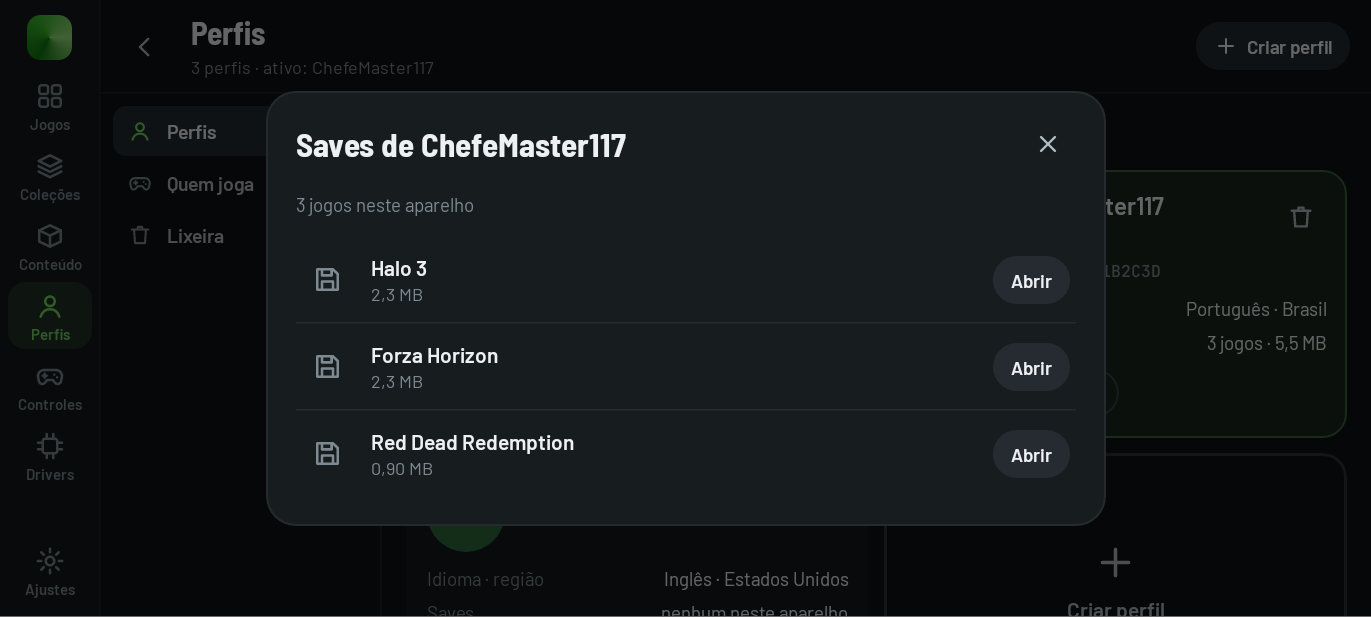
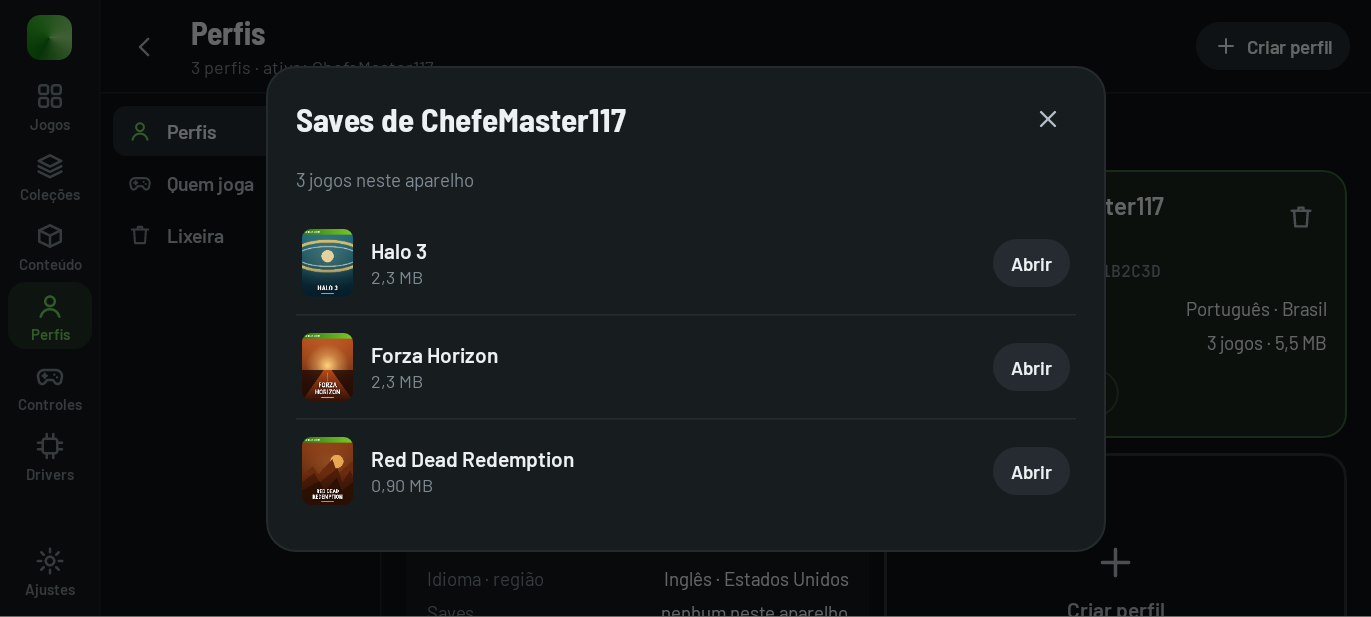
UI redesign B+C: implementation notes, print index and final checks
- docs/ui-redesign/app.md: what changed in each batch (R0, Base, 1-7),
  where the before/after prints are and how to draw them again, the
  tests run, what still needs a device, and the prototype's proposals
  that did not go in (a keymap per controller, finding the game on the
  network and its QR code, picking a disc file inside the game) with
  why; an index of every before/after print.
- docs/ui-redesign/README.md and bc/README.md: state and decisions
  brought up to date (the per-game in-game menu items stay open).
- Lote 4 prints of a game's saves redrawn: the header cover has had a
  fixed aspect ratio since Lote 5, and the profile's saves sheet now
  waits for its covers.
- Instrumented tests compile again: Item38TouchLayoutsTest shows the
  layouts dialog's messages, reported through onMessage since Lote 3.

Tests: testDebugUnitTest 570 passed; testUitestUnitTest 681 passed;
compileUitestAndroidTestKotlin passes. Device validation pending.

Claude-Session: https://claude.ai/code/session_01A6Fbmo6P4eGzPnmXsdG7hf

diff --git a/app/src/androidTest/java/xendroid/compose/roadmap/Item38TouchLayoutsTest.kt b/app/src/androidTest/java/xendroid/compose/roadmap/Item38TouchLayoutsTest.kt
@@ -4,6 +4,7 @@ import android.app.Activity
 import android.app.Instrumentation
 import android.content.Intent
 import android.net.Uri
+import androidx.compose.material3.Text
 import androidx.compose.runtime.getValue
 import androidx.compose.runtime.mutableStateOf
 import androidx.compose.runtime.setValue
@@ -93,8 +94,13 @@ class Item38TouchLayoutsTest {
 
     @Test fun saveApplyExportImportAndRefusals() {
         var config by mutableStateOf(GamepadConfigDto(version = 2, landscape = moved()))
+        // The dialog reports by onMessage (the editor shows it as a toast); shown here to be waited for.
+        var message by mutableStateOf<String?>(null)
         compose.setContent {
-            xendroidTheme { LayoutPresetsDialog(config, editScope = null, landscape = true, onChange = { config = it }, onDismiss = {}) }
+            xendroidTheme {
+                message?.let { Text(it) }
+                LayoutPresetsDialog(config, editScope = null, landscape = true, onChange = { config = it }, onMessage = { message = it }, onDismiss = {})
+            }
         }
         compose.onNodeWithText(Device.string(R.string.lp_scope_shared)).assertExists()
         save("Corrida")
@@ -137,8 +143,12 @@ class Item38TouchLayoutsTest {
     @Test fun thisGameOnlyTouchesOnlyThatGamesLayout() {
         val game = "4D5309C9"
         var config by mutableStateOf(GamepadConfigDto(version = 2).withLayout(game, true, moved()))
+        var message by mutableStateOf<String?>(null)
         compose.setContent {
-            xendroidTheme { LayoutPresetsDialog(config, editScope = game, landscape = true, onChange = { config = it }, onDismiss = {}) }
+            xendroidTheme {
+                message?.let { Text(it) }
+                LayoutPresetsDialog(config, editScope = game, landscape = true, onChange = { config = it }, onMessage = { message = it }, onDismiss = {})
+            }
         }
         compose.onNodeWithText(Device.string(R.string.lp_scope_game)).assertExists()
         save("Corrida")

diff --git a/app/src/testUitest/java/xendroid/compose/screens/Lote4Shots.kt b/app/src/testUitest/java/xendroid/compose/screens/Lote4Shots.kt
@@ -129,7 +129,9 @@ class Lote4Shots {
         profiles(InputMode.TOUCH)
         // The second card's button (ChefeMaster117: saves in three games), not the "Saves" label.
         compose.onAllNodes(hasText("Saves") and hasClickAction())[1].performClick()
-        Fixture.settle(10)
+        // The sheet's covers are decoded in the background.
+        Fixture.settle(40)
+        compose.waitForIdle()
         compose.screen("lote4/depois-saves-do-perfil")
     }
     @Config(qualifiers = Phone.LAND) @Test fun playAs() {

diff --git a/docs/ui-redesign/app.md b/docs/ui-redesign/app.md
@@ -1,0 +1,196 @@
+# Redesign B + C no app
+
+**Estado:** implementado em Compose na branch `wip/ui-redesign`, do R0 ao lote 7. Os testes locais
+passam (unitários, telas no JVM e a compilação dos testes instrumentados); **a validação no
+aparelho está pendente em todos os lotes**. Sem PR, merge ou release.
+
+A direção é a escolhida no protótipo ([`bc/`](bc/README.md)): **B como padrão (toque)** e **C como
+modo controle**, ligado sozinho quando um controle está conectado (Configurações → App →
+Interface: Automático, Sempre toque ou Sempre controle).
+
+## Prints antes e depois
+
+- `prints/app/<lote>/antes-*.png`: as telas como eram, desenhadas a partir do commit anterior ao
+  redesenho (`545296bd3`).
+- `prints/app/<lote>/depois-*.png`: as telas de agora, desenhadas pelos testes de tela
+  (`app/src/testUitest/.../screens/BaseShots.kt`, `Lote1Shots.kt` … `Lote7Shots.kt`).
+- Telefone 20:9 (914 × 411 dp deitado, 411 × 914 dp em pé, densidade 1,5×), tema escuro,
+  português do Brasil. Os prints com `-controle` no nome estão no modo controle (cor da capa ao
+  fundo, dicas dos botões embaixo).
+- Os dados são de exemplo: biblioteca com arte gerada, núcleo nativo simulado (tabelas TOML,
+  perfis, conteúdo), telefone descrito como POCO F7 com Adreno 740.
+
+Para desenhar de novo (precisa do Android SDK, como no `BUILD.md`):
+
+```sh
+./gradlew :app:testUitestUnitTest -Pscreenshots="$PWD/docs/ui-redesign/prints/app"
+# um lote só:
+./gradlew :app:testUitestUnitTest --tests 'xendroid.compose.screens.Lote6Shots' -Pscreenshots="$PWD/docs/ui-redesign/prints/app"
+```
+
+Sem `-Pscreenshots` os mesmos testes desenham cada tela sem gravar arquivo (testes de fumaça).
+
+## O que mudou, lote por lote
+
+### R0: tema e peças base
+
+- `ui/design`: os tokens de B (toque) e C (controle) num `ColorScheme` escuro; Barlow, Barlow Semi
+  Condensed e JetBrains Mono (licenças OFL no APK, conferidas por `tools/check-apk.py`); os ícones
+  de linha do protótipo; botões, chips, controle segmentado, interruptor, busca, seleção, cartões,
+  linhas de lista, notas, selos, capas com a composição para jogos só com ícone, folhas, avisos e
+  as molduras de B e C (trilho, barra inferior, telas com seções, menu do controle, dicas, menu do
+  Start).
+- Modo controle automático, sempre toque ou sempre controle.
+- 29 cvars que o core já lê entraram no esquema de ajustes (mais o modo de vídeo personalizado e
+  a gama personalizada); níveis Essencial, Avançado e Tudo; ajustes rápidos fixados.
+
+### Base: biblioteca e ficha do jogo
+
+- Biblioteca para toque (trilho, busca, ordem, tamanho das capas, filtros, grade e o painel do
+  jogo escolhido com Jogar e ajustes rápidos) e para controle (abas por LB/RB, carrossel, cor da
+  capa ao fundo, dicas, menu do Start).
+- Ficha do jogo como tela: visão geral, cada grupo de ajustes do jogo com a troca para os valores
+  globais, desempenho (gráficos e linha do tempo da última sessão), patches e conteúdo, saves e
+  dados.
+- **Iniciar com…**: perfil, driver, executável, sem patches, sem os ajustes do jogo e linha de
+  comando extra, só para uma abertura (passados ao processo do jogo com o token desta abertura e
+  uma lista fechada do que é aceito).
+
+### Lote 1: Configurações e Drivers
+
+- Configurações com o resumo do que está fora do padrão e dos jogos com ajustes próprios, os mesmos
+  grupos da ficha (cada ajuste diz quantos jogos usam outro valor), interface, idioma, dados e
+  backup, atualizações, comunidade e diagnóstico.
+- Área Drivers: o escolhido e o que a última sessão carregou, pacotes instalados, downloads com
+  SHA-256 conferido, fontes e flags do Turnip.
+
+### Lote 2: jogo aberto
+
+- Carregamento com as etapas do boot e o tempo de cada uma, e com o que o jogo leva nesta abertura.
+- Falha ao abrir com o motivo numa frase e o próximo passo certo (tentar uma vez com o driver do
+  sistema, ir aos saves, tentar de novo).
+- Menu em jogo redesenhado, com a linha de estado e a navegação por controle de antes.
+
+### Lote 3: Controles
+
+- Controles virou uma área do app: quem joga como P1–P4, opções e layouts do toque, cada controle
+  físico com a própria vibração, ajustes do core para controles, telefones como controle e as
+  quatro ferramentas (o editor de toque e o celular como controle estavam sem caminho desde que o
+  menu antigo da biblioteca saiu).
+- Mapeamento de teclas com o controle desenhado, editor de toque com painel do controle escolhido
+  e desfazer, teste de controles que acende o que é apertado, celular como controle redesenhado.
+
+### Lote 4: Perfis e saves
+
+- Perfis como área: cartões (avatar, P1 ativo, idioma, região, saves por jogo), quem joga (P1–P4,
+  perguntar antes de jogar) e a lixeira de perfis; criar e editar numa folha só.
+- Jogar como numa folha; os saves de um jogo com gamertag e avatar em vez do XUID, os nomes dos
+  saves lidos dos cabeçalhos, exportar e importar, e a pasta de sincronização numa seção própria.
+
+### Lote 5: Conteúdo, Diagnóstico e Comparar execuções
+
+- Conteúdo como área: DLC e title updates de todos os jogos, a lixeira com a cota, instalar com os
+  pacotes achados em Downloads; pela ficha, só o daquele jogo.
+- Diagnóstico com as sessões guardadas, os jogos de cada uma e como terminou; o resumo antes de
+  compartilhar e o que sai do arquivo.
+- Comparar execuções com as execuções (A / – / B) ao lado do resultado e dos avisos.
+
+### Lote 6: primeira abertura e telas do app
+
+- **Primeira abertura** (`FirstRunAssistant.kt`): cinco passos com Pular e Voltar sempre à mão:
+  este telefone (GPU Vulkan, ARM de 64 bits, Android, pasta), seus jogos (a pasta escolhida, a busca
+  com quantos jogos e as capas, adicionar outra), idioma e região dos jogos, o perfil criado ali
+  mesmo (vira P1) e como usar (modo da interface, ajustes mostrados, driver opcional). Volta ao
+  mesmo passo depois do navegador de pastas; com controle, cada passo começa no botão principal;
+  reabre pelo menu da biblioteca ou por Sobre.
+- **Pastas de jogos** (`GameFoldersScreen.kt`, no lugar do `GameFoldersDialog.kt`): quantos jogos
+  cada pasta tem, a que recebe as instalações ("Instalar aqui" troca), as indisponíveis agora com o
+  motivo, adicionar, procurar de novo e remover com Desfazer (os arquivos nunca são tocados).
+- **Navegador de pastas** (`FolderBrowserScreen.kt`): armazenamento interno e cartões SD/USB como
+  chips, o caminho em passos clicáveis, quantos jogos há em cada pasta antes de entrar
+  (`FolderGames.kt`, contado em segundo plano e com limite; um ISO só conta com a assinatura de
+  disco do Xbox onde o núcleo a procura, então o ISO de outro console não vira "1 jogo") e na
+  pasta atual; também escolhe um arquivo (pacote a instalar, jogo que mudou de lugar).
+- Caminhos ditos como o app Arquivos diz: "Armazenamento interno › Games › Xbox 360"
+  (`StoragePaths.kt`).
+- **Jogos que saíram** (`MissingGamesScreen.kt`, no lugar do `MissingGamesDialog.kt`): capa
+  guardada, motivo (arquivo sumiu, pasta indisponível, fora das pastas), tempo jogado, Title ID e o
+  caminho de antes; "Onde ele está agora?" abre o navegador perto do caminho antigo e adiciona a
+  pasta do arquivo escolhido; adicionar a pasta; remover só da lista.
+- **Sem Vulkan** (`NoVulkanScreen.kt`): o porquê, as verificações, Sair e copiar os dados do
+  aparelho.
+- **Atualizações do app** (`UpdateScreen.kt`): versão, canal e última procura com "Procurar
+  agora", o canal, e o cartão da atualização (notas, tamanho, SHA-256) com as etapas baixar →
+  conferir o SHA-256 → instalar, progresso e cancelar, pular esta versão e os erros numa frase. O
+  mesmo cartão aparece na folha da procura automática ao abrir o app e em Configurações. Um build
+  sem canal diz de onde vêm as atualizações.
+- **Sobre** (`AboutScreen.kt`, `DeviceInfo.kt`): versão, o aparelho em tabela com copiar tudo,
+  atalhos (atualizações, diagnóstico, assistente) e créditos e licenças.
+
+### Lote 7: os painéis que o jogo pede
+
+- Moldura comum (`GuestPanelFrame.kt`): painel no topo sobre o jogo parado, dizendo qual jogo
+  pergunta (capa e nome) e o que ele pede; as dicas do controle embaixo no modo controle; compacto
+  num telefone deitado. Continua sem ser um `Dialog`, que tiraria o foco da janela e pausaria o
+  jogo.
+- **Mensagem** (`GuestMessageBoxPanel.kt`): título, texto que rola quando é longo com as opções
+  sempre à vista, opções em linhas inteiras e "O jogo fica parado até você escolher".
+- **Teclado** (`GuestKeyboardPanel.kt`): o pedido do jogo, o campo com o limite contado como o jogo
+  conta, as teclas de comando em português (Shift, Espaço, Pronto, Cancelar; ícones quando a
+  grade é estreita), o cursor do controle só no modo controle e os atalhos do Xbox 360 à vista (A
+  digita, X apaga, Y espaço, LB/RB cursor, L3 Shift, R3 símbolos, ≡ pronto). Por toque, o teclado
+  do telefone digita no campo.
+- **Troca de disco** (`DiscSwapPanel.kt`): o disco pedido no título e já escolhido na lista, os
+  discos achados com o arquivo de cada um, o que estava no drive marcado "o de antes" (a escolha
+  fica à vista quando a lista rola) e Cancelar por último, avisando que o jogo já ejetou o disco.
+
+## Testes
+
+Rodados em 2026-10-04, no fim do lote 7:
+
+- `./gradlew :app:testDebugUnitTest`: 570 testes, nenhuma falha. Inclui os novos do redesenho
+  (`FolderGamesTest`, `LibraryRootsTest`, `RequestedDiscTest`, `ContentCatalogTest`,
+  `DiagnosticsSessionsTest`, `KeyboardGridTest`) e a paridade de textos en/pt-BR
+  (`StringResourcesTest`).
+- `./gradlew :app:testUitestUnitTest`: 681 testes de tela no JVM (Robolectric + Roborazzi),
+  nenhuma falha.
+- `./gradlew :app:compileUitestAndroidTestKotlin`: os testes instrumentados compilam
+  (`Item38TouchLayoutsTest` foi ajustado ao `onMessage` do diálogo de layouts, do lote 3). Rodá-los
+  exige um aparelho (`./gradlew :app:connectedUitestAndroidTest`) e não foi feito.
+
+## Validação no aparelho (pendente)
+
+| Lote | O que conferir |
+|---|---|
+| R0 / Base | Modo controle ligando e desligando sozinho ao conectar um controle; capas reais; Jogar e Iniciar com… abrindo o jogo |
+| 1 | Ajustes gravados no TOML global e do jogo; download de driver com SHA-256 |
+| 2 | Etapas do carregamento com um jogo real; falha ao abrir com o driver do sistema; menu em jogo com controle |
+| 3 | Captura de tecla com controle real; arrastar no editor de toque; teste de controles; celular como controle na rede |
+| 4 | Criar, editar e apagar perfis; Jogar como; exportar, importar e sincronizar saves |
+| 5 | Instalar conteúdo de Downloads; lixeira; sessões do diagnóstico com jogos reais; comparar execuções |
+| 6 | Assistente numa instalação limpa (acesso a todos os arquivos, Android 10 e 14); navegador com cartão SD e USB (nome do volume); "Onde ele está agora?"; atualização num build `.fork` com canal (baixar, conferir, permissão do instalador); copiar os dados em Sobre |
+| 7 | Mensagem, teclado e troca de disco em jogos reais: seleção pelo direcional vinda do host, teclado do telefone sem cobrir o campo, atalhos do Xbox 360, troca num jogo de vários discos |
+
+## Propostas do protótipo que ficaram de fora
+
+- **Mapa de teclas por controle** (lote 3): o host aplica um mapa só a todos os controles; um mapa
+  por aparelho precisa da identidade do controle no caminho da entrada.
+- **Achar o jogo na rede e ler o QR code** (celular como controle, lote 3): precisa de descoberta
+  na rede local (NSD/mDNS) dos dois lados e de câmera, uma permissão nova.
+- **Procurar o arquivo do disco** quando nenhum é achado (troca de disco, lote 7): o painel roda
+  dentro do jogo; entregar ao core um caminho escolhido ali exige conferir no host que o arquivo é
+  um disco daquele título. Ficou de fora para não abrir esse caminho sem a conferência; hoje
+  Cancelar continua sendo a saída, e o disco aparece depois de colocado numa pasta de jogos.
+
+## Índice dos prints
+
+| Lote | Antes | Depois |
+|---|---|---|
+| Base: biblioteca e ficha | [biblioteca paisagem](prints/app/base/antes-biblioteca-paisagem.png), [biblioteca retrato](prints/app/base/antes-biblioteca-retrato.png), [carrossel paisagem](prints/app/base/antes-carrossel-paisagem.png), [ficha paisagem](prints/app/base/antes-ficha-paisagem.png), [ficha retrato](prints/app/base/antes-ficha-retrato.png) | [biblioteca controle retrato](prints/app/base/depois-biblioteca-controle-retrato.png), [biblioteca controle](prints/app/base/depois-biblioteca-controle.png), [biblioteca paisagem](prints/app/base/depois-biblioteca-paisagem.png), [biblioteca retrato](prints/app/base/depois-biblioteca-retrato.png), [ficha ajustes](prints/app/base/depois-ficha-ajustes.png), [ficha conteúdo](prints/app/base/depois-ficha-conteudo.png), [ficha controle ajustes](prints/app/base/depois-ficha-controle-ajustes.png), [ficha controle](prints/app/base/depois-ficha-controle.png), [ficha dados](prints/app/base/depois-ficha-dados.png), [ficha desempenho](prints/app/base/depois-ficha-desempenho.png), [ficha paisagem](prints/app/base/depois-ficha-paisagem.png), [ficha retrato](prints/app/base/depois-ficha-retrato.png), [iniciar com…](prints/app/base/depois-iniciar-com.png) |
+| Lote 1: Configurações e Drivers | [ajustes do jogo](prints/app/lote1/antes-ajustes-do-jogo.png), [configurações](prints/app/lote1/antes-configuracoes.png), [drivers](prints/app/lote1/antes-drivers.png) | [configurações controle](prints/app/lote1/depois-configuracoes-controle.png), [configurações imagem](prints/app/lote1/depois-configuracoes-imagem.png), [configurações interface](prints/app/lote1/depois-configuracoes-interface.png), [configurações retrato](prints/app/lote1/depois-configuracoes-retrato.png), [configurações](prints/app/lote1/depois-configuracoes.png), [drivers controle](prints/app/lote1/depois-drivers-controle.png), [drivers retrato](prints/app/lote1/depois-drivers-retrato.png), [drivers](prints/app/lote1/depois-drivers.png) |
+| Lote 2: jogo aberto | [carregamento](prints/app/lote2/antes-carregamento.png), [menu em jogo](prints/app/lote2/antes-menu-em-jogo.png) | [carregamento controle](prints/app/lote2/depois-carregamento-controle.png), [carregamento retrato](prints/app/lote2/depois-carregamento-retrato.png), [carregamento](prints/app/lote2/depois-carregamento.png), [falha ao abrir](prints/app/lote2/depois-falha-ao-abrir.png), [menu desempenho](prints/app/lote2/depois-menu-desempenho.png), [menu em jogo controle](prints/app/lote2/depois-menu-em-jogo-controle.png), [menu em jogo retrato](prints/app/lote2/depois-menu-em-jogo-retrato.png), [menu em jogo](prints/app/lote2/depois-menu-em-jogo.png) |
+| Lote 3: Controles | [celular como controle](prints/app/lote3/antes-celular-como-controle.png), [editor de toque](prints/app/lote3/antes-editor-de-toque.png), [mapeamento](prints/app/lote3/antes-mapeamento.png), [testar controles](prints/app/lote3/antes-testar-controles.png) | [celular como controle](prints/app/lote3/depois-celular-como-controle.png), [celular jogando](prints/app/lote3/depois-celular-jogando.png), [controles controle](prints/app/lote3/depois-controles-controle.png), [controles fisicos](prints/app/lote3/depois-controles-fisicos.png), [controles movimento](prints/app/lote3/depois-controles-movimento.png), [controles retrato](prints/app/lote3/depois-controles-retrato.png), [controles telefones](prints/app/lote3/depois-controles-telefones.png), [controles toque](prints/app/lote3/depois-controles-toque.png), [controles](prints/app/lote3/depois-controles.png), [editor de toque controle](prints/app/lote3/depois-editor-de-toque-controle.png), [editor de toque gerais](prints/app/lote3/depois-editor-de-toque-gerais.png), [editor de toque](prints/app/lote3/depois-editor-de-toque.png), [mapeamento captura](prints/app/lote3/depois-mapeamento-captura.png), [mapeamento controle](prints/app/lote3/depois-mapeamento-controle.png), [mapeamento retrato](prints/app/lote3/depois-mapeamento-retrato.png), [mapeamento](prints/app/lote3/depois-mapeamento.png), [testar controles retrato](prints/app/lote3/depois-testar-controles-retrato.png), [testar controles](prints/app/lote3/depois-testar-controles.png) |
+| Lote 4: Perfis e saves | [jogar como](prints/app/lote4/antes-jogar-como.png), [perfis](prints/app/lote4/antes-perfis.png), [saves](prints/app/lote4/antes-saves.png) | [editar perfil](prints/app/lote4/depois-editar-perfil.png), [jogar como](prints/app/lote4/depois-jogar-como.png), [lixeira de perfis](prints/app/lote4/depois-lixeira-de-perfis.png), [perfis controle](prints/app/lote4/depois-perfis-controle.png), [perfis retrato](prints/app/lote4/depois-perfis-retrato.png), [perfis](prints/app/lote4/depois-perfis.png), [quem joga](prints/app/lote4/depois-quem-joga.png), [saves controle](prints/app/lote4/depois-saves-controle.png), [saves do perfil](prints/app/lote4/depois-saves-do-perfil.png), [saves retrato](prints/app/lote4/depois-saves-retrato.png), [saves sincronização](prints/app/lote4/depois-saves-sincronizacao.png), [saves](prints/app/lote4/depois-saves.png) |
+| Lote 5: Conteúdo, Diagnóstico e Comparar | [comparar execuções](prints/app/lote5/antes-comparar-execucoes.png), [conteúdo](prints/app/lote5/antes-conteudo.png), [diagnóstico](prints/app/lote5/antes-diagnostico.png), [instalar conteúdo](prints/app/lote5/antes-instalar-conteudo.png) | [como medir](prints/app/lote5/depois-como-medir.png), [comparar execuções controle](prints/app/lote5/depois-comparar-execucoes-controle.png), [comparar execuções retrato](prints/app/lote5/depois-comparar-execucoes-retrato.png), [comparar execuções](prints/app/lote5/depois-comparar-execucoes.png), [comparar sem marcar](prints/app/lote5/depois-comparar-sem-marcar.png), [conteúdo controle](prints/app/lote5/depois-conteudo-controle.png), [conteúdo do jogo atualizacoes](prints/app/lote5/depois-conteudo-do-jogo-atualizacoes.png), [conteúdo do jogo controle](prints/app/lote5/depois-conteudo-do-jogo-controle.png), [conteúdo do jogo](prints/app/lote5/depois-conteudo-do-jogo.png), [conteúdo lixeira](prints/app/lote5/depois-conteudo-lixeira.png), [conteúdo retrato](prints/app/lote5/depois-conteudo-retrato.png), [conteúdo](prints/app/lote5/depois-conteudo.png), [diagnóstico controle](prints/app/lote5/depois-diagnostico-controle.png), [diagnóstico do jogo](prints/app/lote5/depois-diagnostico-do-jogo.png), [diagnóstico resumo](prints/app/lote5/depois-diagnostico-resumo.png), [diagnóstico retrato](prints/app/lote5/depois-diagnostico-retrato.png), [diagnóstico](prints/app/lote5/depois-diagnostico.png), [instalar conteúdo retrato](prints/app/lote5/depois-instalar-conteudo-retrato.png), [instalar conteúdo](prints/app/lote5/depois-instalar-conteudo.png), [remover conteúdo](prints/app/lote5/depois-remover-conteudo.png) |
+| Lote 6: primeira abertura e telas do app | [atualizador](prints/app/lote6/antes-atualizador.png), [jogos que saíram](prints/app/lote6/antes-jogos-que-sairam.png), [navegador de pastas](prints/app/lote6/antes-navegador-de-pastas.png), [pastas](prints/app/lote6/antes-pastas.png), [primeira abertura](prints/app/lote6/antes-primeira-abertura.png), [sem vulkan](prints/app/lote6/antes-sem-vulkan.png), [sobre](prints/app/lote6/antes-sobre.png) | [atualizador baixando](prints/app/lote6/depois-atualizador-baixando.png), [atualizador controle](prints/app/lote6/depois-atualizador-controle.png), [atualizador retrato](prints/app/lote6/depois-atualizador-retrato.png), [atualizador](prints/app/lote6/depois-atualizador.png), [jogos que saíram](prints/app/lote6/depois-jogos-que-sairam.png), [navegador arquivo retrato](prints/app/lote6/depois-navegador-arquivo-retrato.png), [navegador de pastas controle](prints/app/lote6/depois-navegador-de-pastas-controle.png), [navegador de pastas](prints/app/lote6/depois-navegador-de-pastas.png), [pastas retrato](prints/app/lote6/depois-pastas-retrato.png), [pastas](prints/app/lote6/depois-pastas.png), [primeira abertura como usar](prints/app/lote6/depois-primeira-abertura-como-usar.png), [primeira abertura idioma](prints/app/lote6/depois-primeira-abertura-idioma.png), [primeira abertura jogos](prints/app/lote6/depois-primeira-abertura-jogos.png), [primeira abertura perfil](prints/app/lote6/depois-primeira-abertura-perfil.png), [primeira abertura retrato](prints/app/lote6/depois-primeira-abertura-retrato.png), [primeira abertura](prints/app/lote6/depois-primeira-abertura.png), [sem vulkan retrato](prints/app/lote6/depois-sem-vulkan-retrato.png), [sem vulkan](prints/app/lote6/depois-sem-vulkan.png), [sobre controle](prints/app/lote6/depois-sobre-controle.png), [sobre retrato](prints/app/lote6/depois-sobre-retrato.png), [sobre](prints/app/lote6/depois-sobre.png) |
+| Lote 7: painéis do jogo | [mensagem](prints/app/lote7/antes-mensagem.png), [troca de disco](prints/app/lote7/antes-troca-de-disco.png) | [mensagem controle](prints/app/lote7/depois-mensagem-controle.png), [mensagem longa retrato](prints/app/lote7/depois-mensagem-longa-retrato.png), [mensagem](prints/app/lote7/depois-mensagem.png), [teclado controle](prints/app/lote7/depois-teclado-controle.png), [teclado símbolos retrato](prints/app/lote7/depois-teclado-simbolos-retrato.png), [teclado](prints/app/lote7/depois-teclado.png), [troca de disco controle](prints/app/lote7/depois-troca-de-disco-controle.png), [troca de disco sem disco retrato](prints/app/lote7/depois-troca-de-disco-sem-disco-retrato.png), [troca de disco](prints/app/lote7/depois-troca-de-disco.png) |

diff --git a/docs/ui-redesign/README.md b/docs/ui-redesign/README.md
@@ -1,7 +1,9 @@
 # Redesign da UI: protótipos da biblioteca e da ficha do jogo
 
-**Estado:** protótipo em HTML, nada mudou no app. Branch `wip/ui-redesign`, criada a partir de
-`wip/experiencia-em-jogo` (`7bb34099d`). Sem PR, merge ou release.
+**Estado:** o redesenho B + C está implementado no app (Compose), do R0 ao lote 7. O que mudou,
+os prints antes/depois e o que falta validar no aparelho estão em [`app.md`](app.md). Branch
+`wip/ui-redesign`, criada a partir de `wip/experiencia-em-jogo` (`7bb34099d`). Sem PR, merge ou
+release.
 
 **Pedido:** redesign começando pela biblioteca e pela ficha do jogo; tema escuro, capas grandes,
 visual moderno e funcional; expor ajustes que o core já tem e a UI não mostra; muito controle do
@@ -131,24 +133,23 @@ Observações que vão para a implementação:
 - `APU.volume` é o valor de partida; o menu do jogo continua mudando ao vivo.
 - Cada cvar nova precisa de texto en/pt-BR, teste do esquema e do contrato, e validação no aparelho.
 
-## Decisões que dependem de você
+## Decisões
 
-1. **Direção:** A, B, C ou B + C (sugerida).
-2. **Níveis:** trocar Jogador/Desenvolvedor por Essencial/Avançado/Tudo?
-3. **Fontes:** empacotar as do protótipo (Saira Semi Condensed nos títulos, Hanken Grotesk no
-   texto, JetBrains Mono nos IDs; algumas centenas de KB no APK) ou ficar na fonte do sistema?
-4. **Itens do menu do jogo por jogo:** modo de exibição, filtro de cor, HUD e geração de quadros
-   aparecem na ficha como padrão do jogo. Antes de implementar, conferir o que já é salvo por jogo
-   hoje e o que é só da sessão.
-5. **Iniciar com…:** exige mandar ajustes de uma abertura só para o processo `:emu` (hoje pelo
-   `EmuProcessLink`), sem gravar no TOML. Seguir com isso?
-6. **Prints antes/depois:** testes de captura do Compose (Roborazzi, sem aparelho; exige instalar o
-   Android SDK na sessão, como no `BUILD.md`) ou prints tirados por você no aparelho?
+1. **Direção:** B + C (B para toque, C para controle).
+2. **Níveis:** Essencial/Avançado/Tudo no lugar de Jogador/Desenvolvedor (o processo do jogo
+   continua lendo Jogador/Desenvolvedor, mantidos em sincronia).
+3. **Fontes:** uma família só, empacotada (Barlow e Barlow Semi Condensed, JetBrains Mono nos IDs),
+   com as licenças OFL no APK.
+4. **Itens do menu do jogo por jogo** (modo de exibição, filtro de cor, HUD e geração de quadros
+   como padrão do jogo na ficha): **em aberto**. Não entrou; antes, conferir o que já é salvo por
+   jogo hoje e o que é só da sessão.
+5. **Iniciar com…:** feito, passado ao processo `:emu` só para aquela abertura, sem gravar no TOML.
+6. **Prints antes/depois:** testes de captura do Compose (Roborazzi, sem aparelho).
 
-## Plano de implementação (depois da escolha)
+## Plano de implementação (registro)
 
 Cada lote com prints antes/depois, testes locais e a validação no aparelho marcada como pendente,
-como no resto do projeto.
+como no resto do projeto. O que foi feito em cada lote está em [`app.md`](app.md).
 
 | Lote | Tela | Onde mexe hoje |
 |---|---|---|

diff --git a/docs/ui-redesign/bc/README.md b/docs/ui-redesign/bc/README.md
@@ -1,7 +1,8 @@
 # Protótipo B + C: o app inteiro em toque (B) e controle (C)
 
-**Estado:** protótipo em HTML de todas as telas (lotes Base a 7); nada mudou no app. Escolha registrada: **direção B como padrão
-(toque) e C como modo controle**, ligado sozinho quando um controle está conectado.
+**Estado:** protótipo em HTML de todas as telas (lotes Base a 7), já implementado no app: veja
+[`../app.md`](../app.md). Escolha registrada: **direção B como padrão (toque) e C como modo
+controle**, ligado sozinho quando um controle está conectado.
 
 ## Como abrir
 
@@ -179,7 +180,8 @@ nenhuma tela os chama hoje; o menu em jogo os substituiu.
 - Controles, conteúdo e diagnóstico ficam espalhados no menu ⋮ da biblioteca; o protótipo os
   junta em áreas do trilho (no modo controle, no menu do Start).
 
-## Próximo passo
+## No app
 
-Implementar em Compose, lote por lote, com prints antes/depois (Roborazzi) e a validação no
-aparelho marcada como pendente; só começa com o seu ok, sem PR, merge ou release sem pedido.
+Implementado em Compose, lote por lote, com prints antes/depois (Roborazzi) em
+`../prints/app/<lote>/`; a validação no aparelho está pendente. O que entrou em cada lote e as
+propostas daqui que ficaram de fora estão em [`../app.md`](../app.md).
